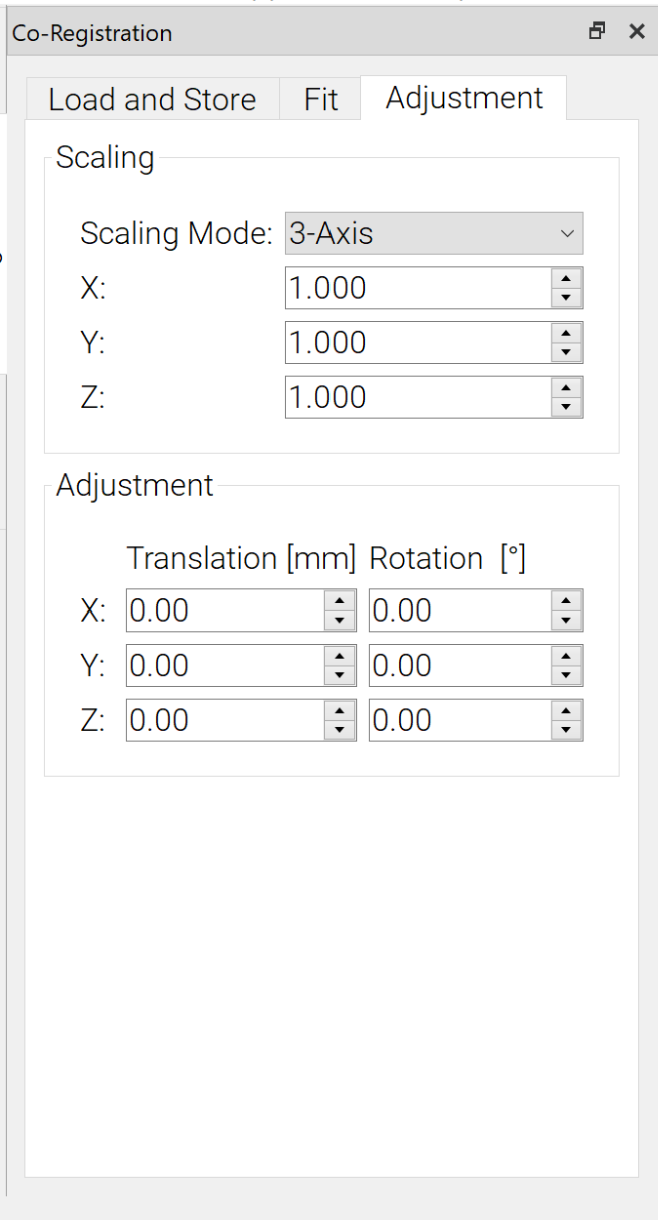
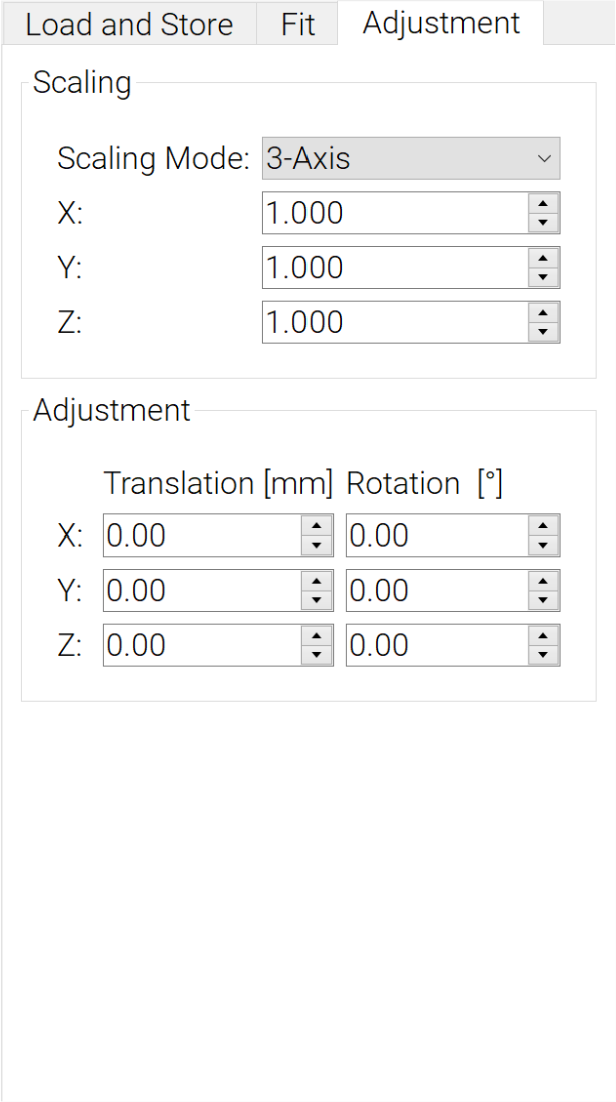
Maint: beautify pictures and resize

diff --git a/doc/gh-pages/pages/learn/analyze_coregistration.md b/doc/gh-pages/pages/learn/analyze_coregistration.md
@@ -33,21 +33,19 @@ Optional:
 ## Co-Registration Plugin
 
 ### Load and Store
-
-![](../../images/analyze/mne_an_coreg_load.png)
+<img src="../../images/analyze/mne_an_coreg_load.png" width="300" height="auto">
 
 First, you should select the BEM you want to use for co-registration in `MRI Subject`. Once done, the head surface should be visualized within the 3DView. Further, you can choose if you want to
 
 1. load or
 2. pick fiducials.
 
-If you enable `Pick Fiducials from View`, you can choose the cardinal points for co-registration. Make sure that the location fits with the location you digitized on your subject. To pick the fiducials, make sure to open the 3DView (Toolbar: `View`->`3D View`). You can now pick the fiducials by clicking on the surface within the 3D View. The coordinates for the current selected Fiducial will be displayed. For further information and conventions on fiducials, refer to this [guide](https://neuroimage.usc.edu/brainstorm/CoordinateSystems?highlight=%28auricular%29). Once picked, you can store the fiducials to avoid picking in future sessions.
+If you enable `Pick Fiducials from View`, you can choose the cardinal points for co-registration. Make sure that the location fits with the location you digitized on your subject. To pick the fiducials, make sure to open the 3DView (Toolbar: `View`->`3D View`). You can now pick the fiducials by clicking on the surface within the 3D View. The coordinates for the current selected Fiducial will be displayed. For further information and conventions on fiducials, refer to this [guide](https://neuroimage.usc.edu/brainstorm/CoordinateSystems?highlight=%28auricular%29){:target="_blank" rel="noopener"}. Once picked, you can store the fiducials to avoid picking in future sessions.
 
 You can also use `Load Transformation` to load a previously observed transformation to avoid performing Co-Registration again. With `Store Transformation`, you can also store the observed transformation to file for future sessions.
 
 ### Fit
-
-![](../../images/analyze/mne_an_coreg_fit.png)
+<img src="../../images/analyze/mne_an_coreg_fit.png" width="300" height="auto">
 
 On this tab, you can change the settings for the actual co-registration. In `Digitizer Options`, you can select the weights for different kinds of digitized points, which type (EEG, HPI and HSP) you want to use, and the maximum allowed distance from a point to the surface should be. 
 
@@ -55,7 +53,7 @@ In `Fitting Options`, you can specify the maximum number of iterations for the I
 
 ### Adjustment
 
-![](../../images/analyze/mne_an_coreg_adjust.png)
+<img src="../../images/analyze/mne_an_coreg_adjust.png" width="300" height="auto">
 
 Here you can further adjust the results. You have three options for additional scaling
 
